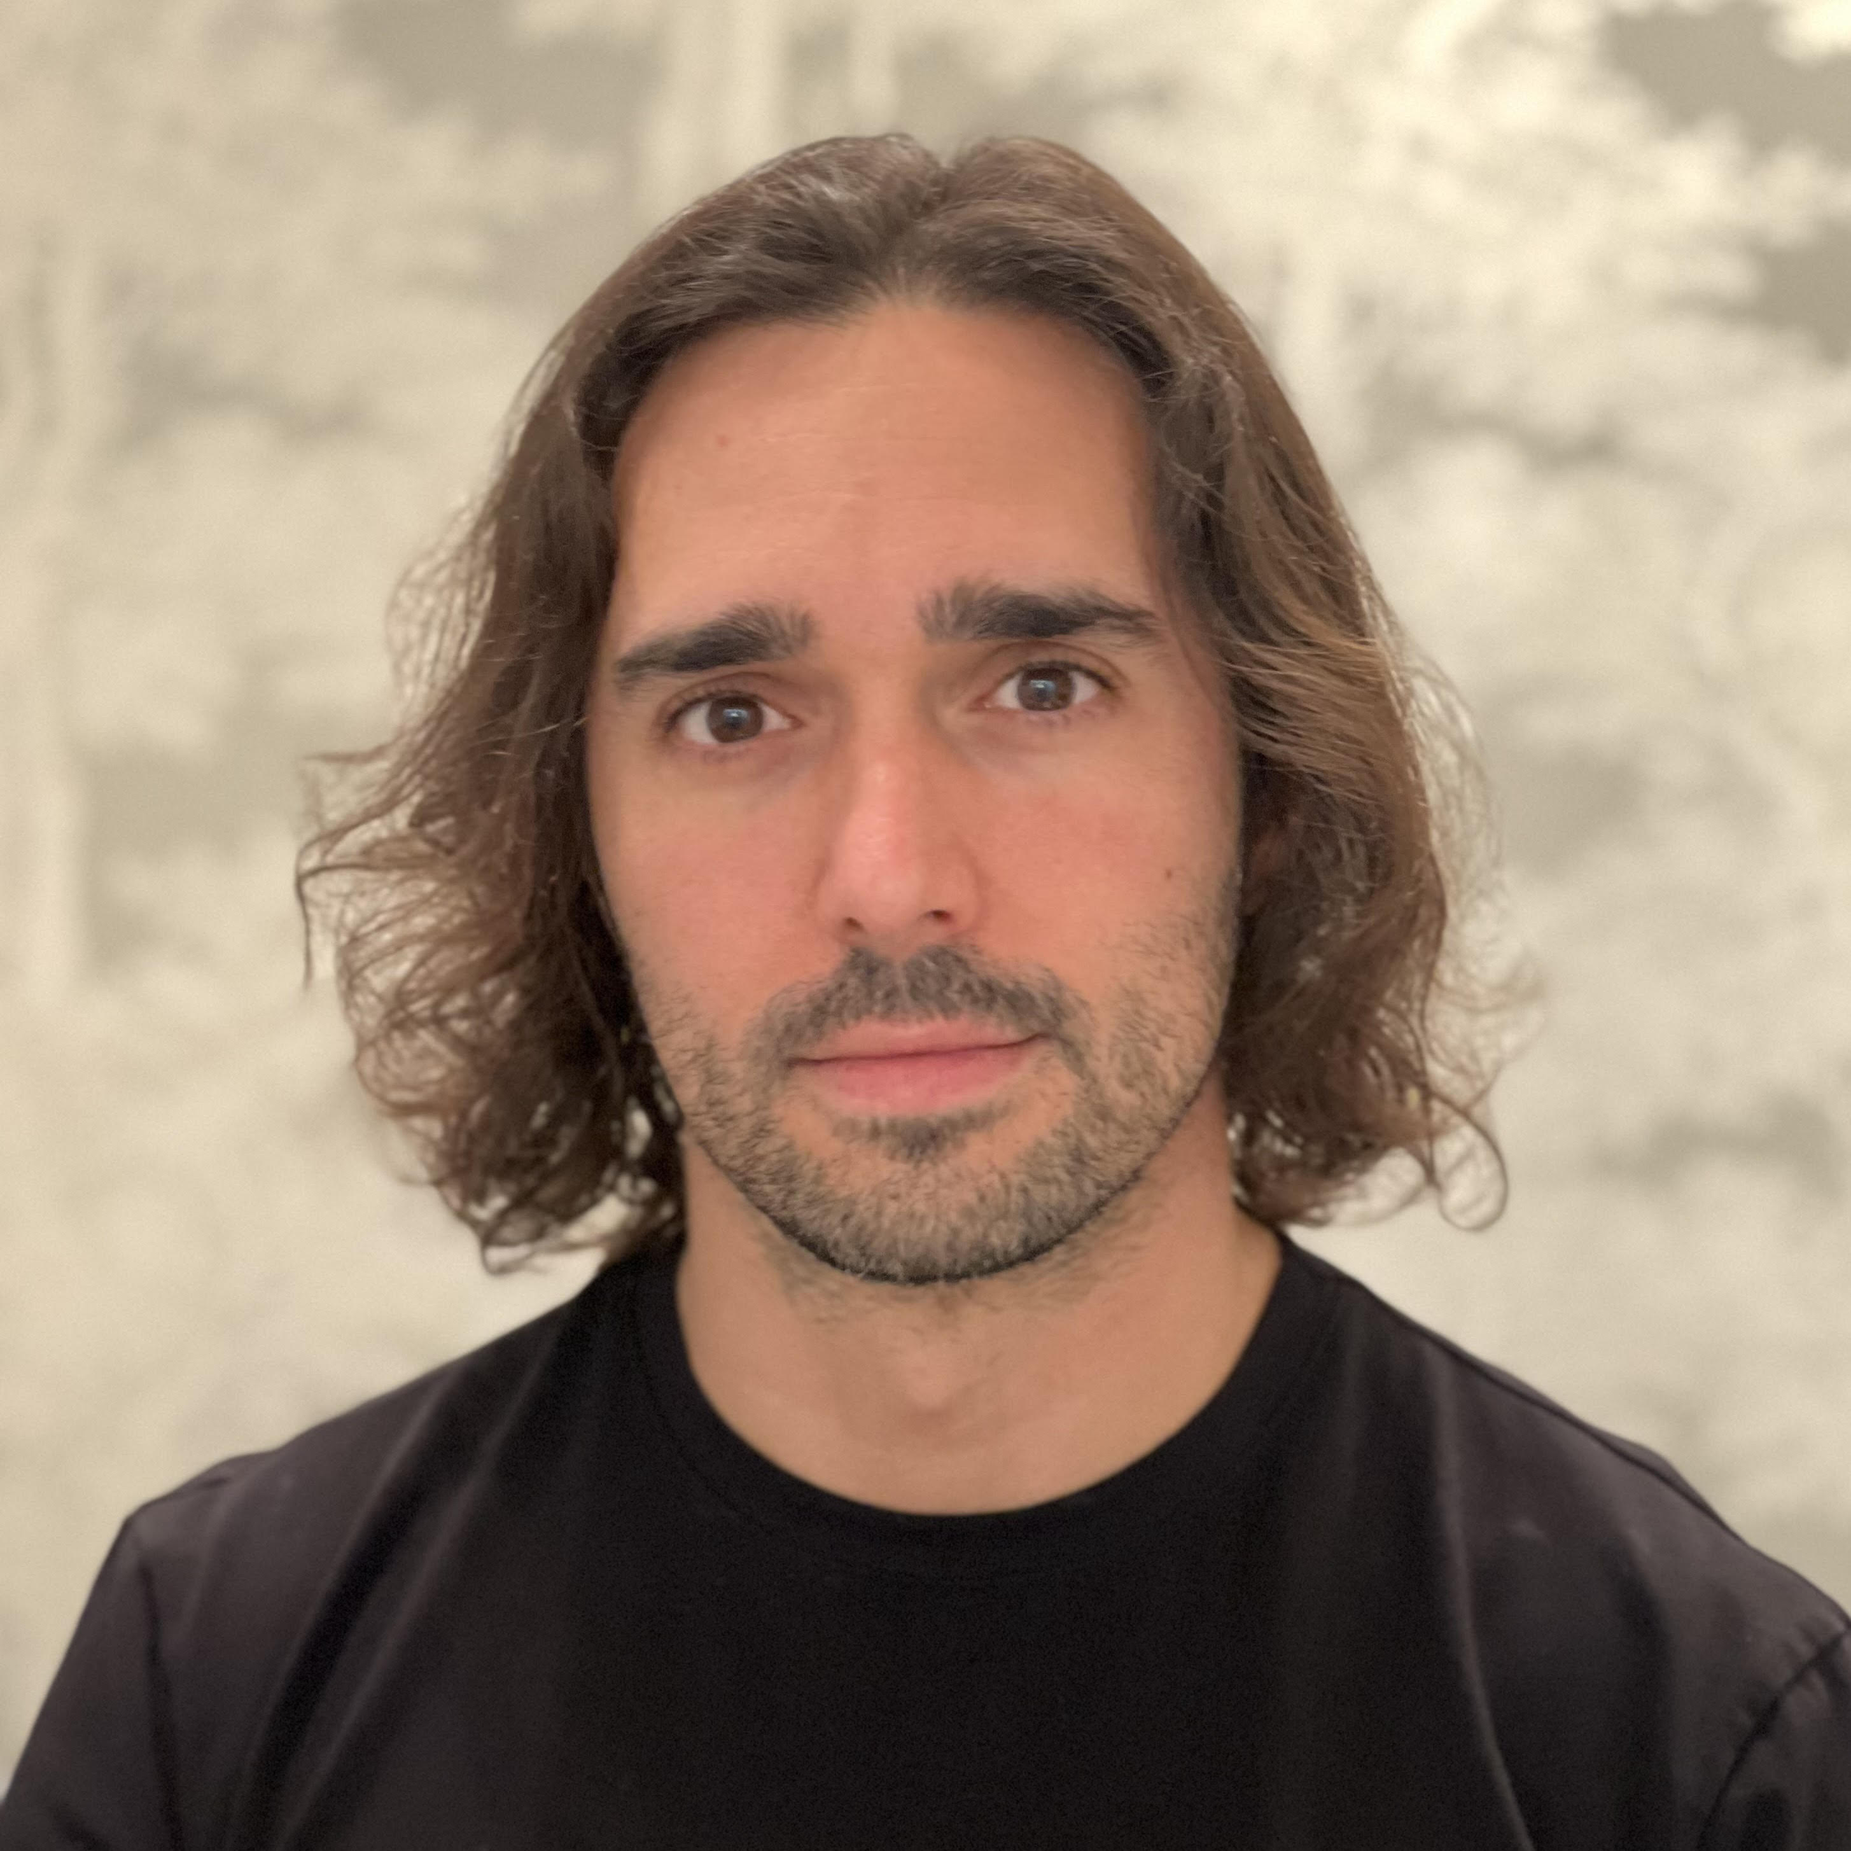
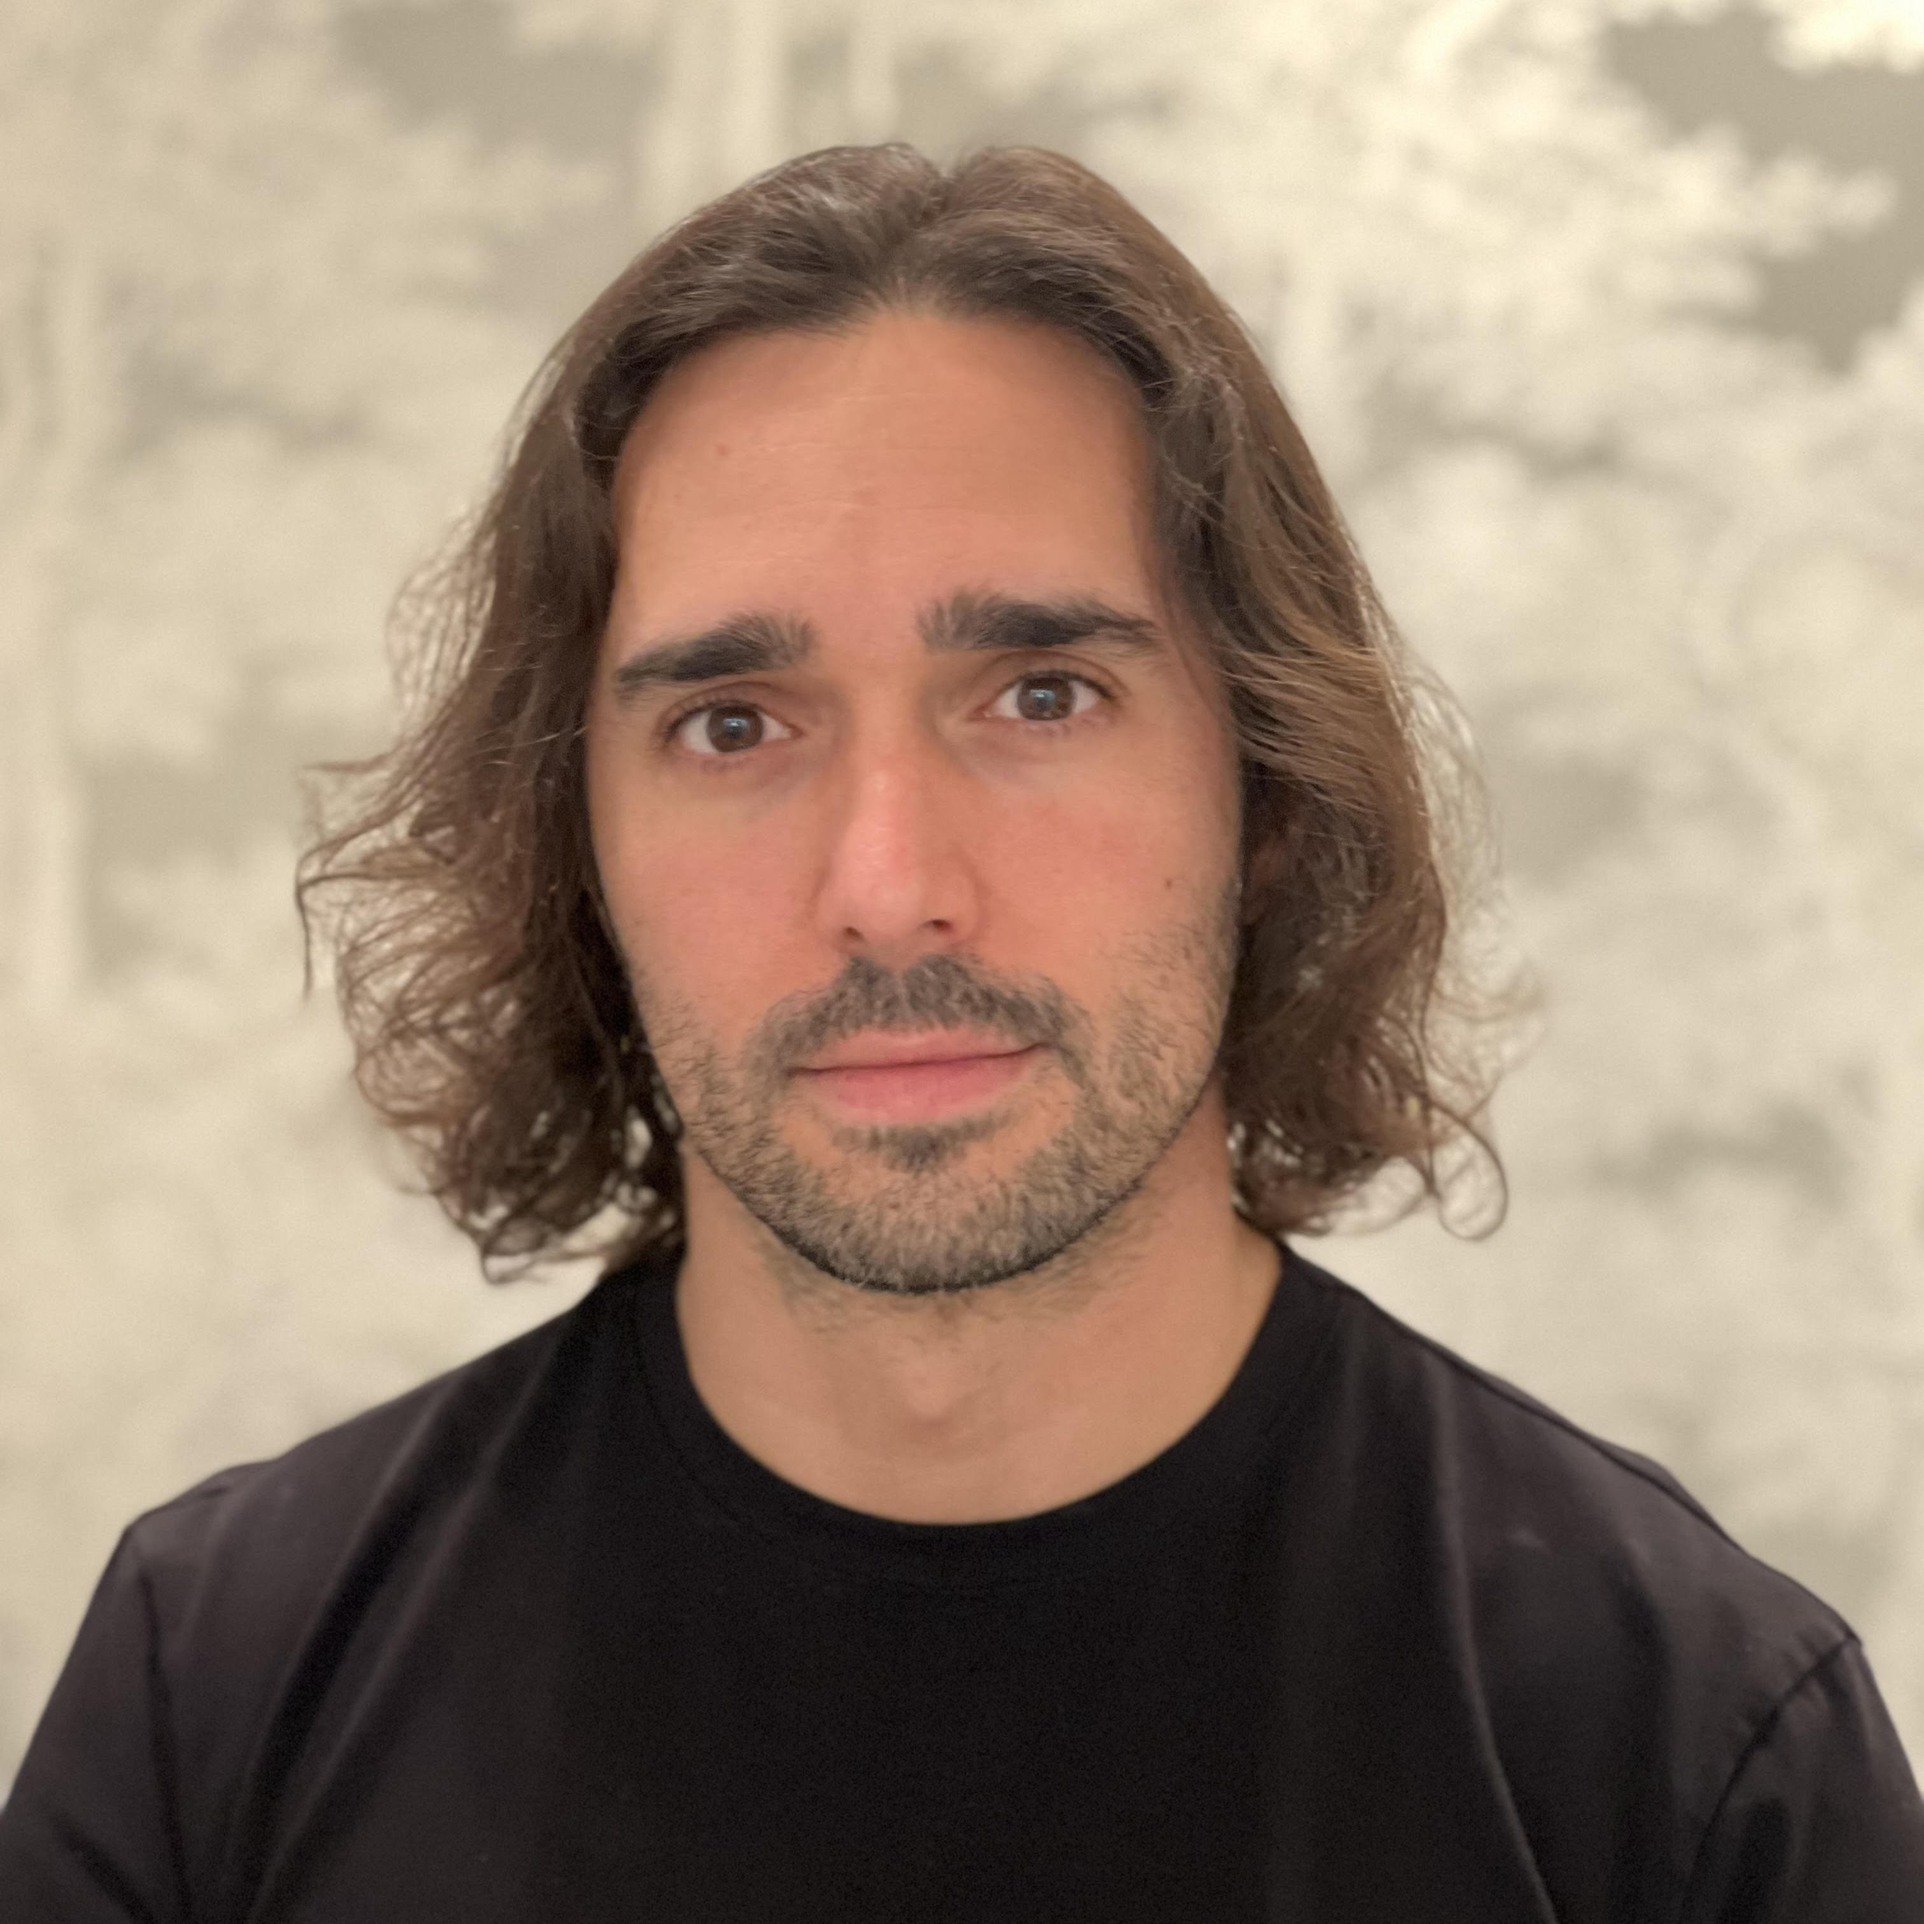
malaina picture

diff --git a/organizacion.html b/organizacion.html
@@ -219,7 +219,7 @@
       <p style="text-align:center;font-size:0.4em;">&copy;2011 Leticia Hernando</p>
     </div>
     <div class="col-md-2">
-      <a href="#malaina"><img style="width:100%;" src="imgs_co/malaina.jpg" alt="Iker Malaina"/></a>
+      <a href="#malaina"><img style="width:100%;" src="imgs_co/malainaB.jpg" alt="Iker Malaina"/></a>
       <a href="#malaina"><p style="text-align:center;margin:0;font-size:0.8em;">Iker<br/>Malaina</p></a>
       <p style="text-align:center;font-size:0.4em;">&copy;2023 Iker Malaina</p>
     </div>
@@ -278,7 +278,7 @@
       <p style="text-align:center;font-size:0.4em;">&copy;2011 Leticia Hernando</p>
     </div>
     <div class="col-md-4">
-      <a href="#malaina"><img style="width:100%;" src="imgs_co/malaina.jpg" alt="Iker Malaina"/></a>
+      <a href="#malaina"><img style="width:100%;" src="imgs_co/malainaB.jpg" alt="Iker Malaina"/></a>
       <a href="#malaina"><p style="text-align:center;margin:0;font-size:0.8em;">Iker<br/>Malaina</p></a>
       <p style="text-align:center;font-size:0.4em;">&copy;2023 Iker Malaina</p>
     </div>

diff --git a/organizacion_en.html b/organizacion_en.html
@@ -224,7 +224,7 @@
       <p style="text-align:center;font-size:0.4em;">&copy;2011 Leticia Hernando</p>
     </div>
     <div class="col-md-2">
-      <a href="#malaina"><img style="width:100%;" src="imgs_co/malaina.jpg" alt="Iker Malaina"/></a>
+      <a href="#malaina"><img style="width:100%;" src="imgs_co/malainaB.jpg" alt="Iker Malaina"/></a>
       <a href="#malaina"><p style="text-align:center;margin:0;font-size:0.8em;">Iker<br/>Malaina</p></a>
       <p style="text-align:center;font-size:0.4em;">&copy;2023 Iker Malaina</p>
     </div>
@@ -283,7 +283,7 @@
       <p style="text-align:center;font-size:0.4em;">&copy;2011 Leticia Hernando</p>
     </div>
     <div class="col-md-4">
-      <a href="#malaina"><img style="width:100%;" src="imgs_co/malaina.jpg" alt="Iker Malaina"/></a>
+      <a href="#malaina"><img style="width:100%;" src="imgs_co/malainaB.jpg" alt="Iker Malaina"/></a>
       <a href="#malaina"><p style="text-align:center;margin:0;font-size:0.8em;">Iker<br/>Malaina</p></a>
       <p style="text-align:center;font-size:0.4em;">&copy;2023 Iker Malaina</p>
     </div>

diff --git a/organizacion_eu.html b/organizacion_eu.html
@@ -223,7 +223,7 @@
       <p style="text-align:center;font-size:0.4em;">&copy;2011 Leticia Hernando</p>
     </div>
     <div class="col-md-2">
-      <a href="#malaina"><img style="width:100%;" src="imgs_co/malaina.jpg" alt="Iker Malaina"/></a>
+      <a href="#malaina"><img style="width:100%;" src="imgs_co/malainaB.jpg" alt="Iker Malaina"/></a>
       <a href="#malaina"><p style="text-align:center;margin:0;font-size:0.8em;">Iker<br/>Malaina</p></a>
       <p style="text-align:center;font-size:0.4em;">&copy;2023 Iker Malaina</p>
     </div>
@@ -282,7 +282,7 @@
       <p style="text-align:center;font-size:0.4em;">&copy;2011 Leticia Hernando</p>
     </div>
     <div class="col-md-4">
-      <a href="#malaina"><img style="width:100%;" src="imgs_co/malaina.jpg" alt="Iker Malaina"/></a>
+      <a href="#malaina"><img style="width:100%;" src="imgs_co/malainaB.jpg" alt="Iker Malaina"/></a>
       <a href="#malaina"><p style="text-align:center;margin:0;font-size:0.8em;">Iker<br/>Malaina</p></a>
       <p style="text-align:center;font-size:0.4em;">&copy;2023 Iker Malaina</p>
     </div>
